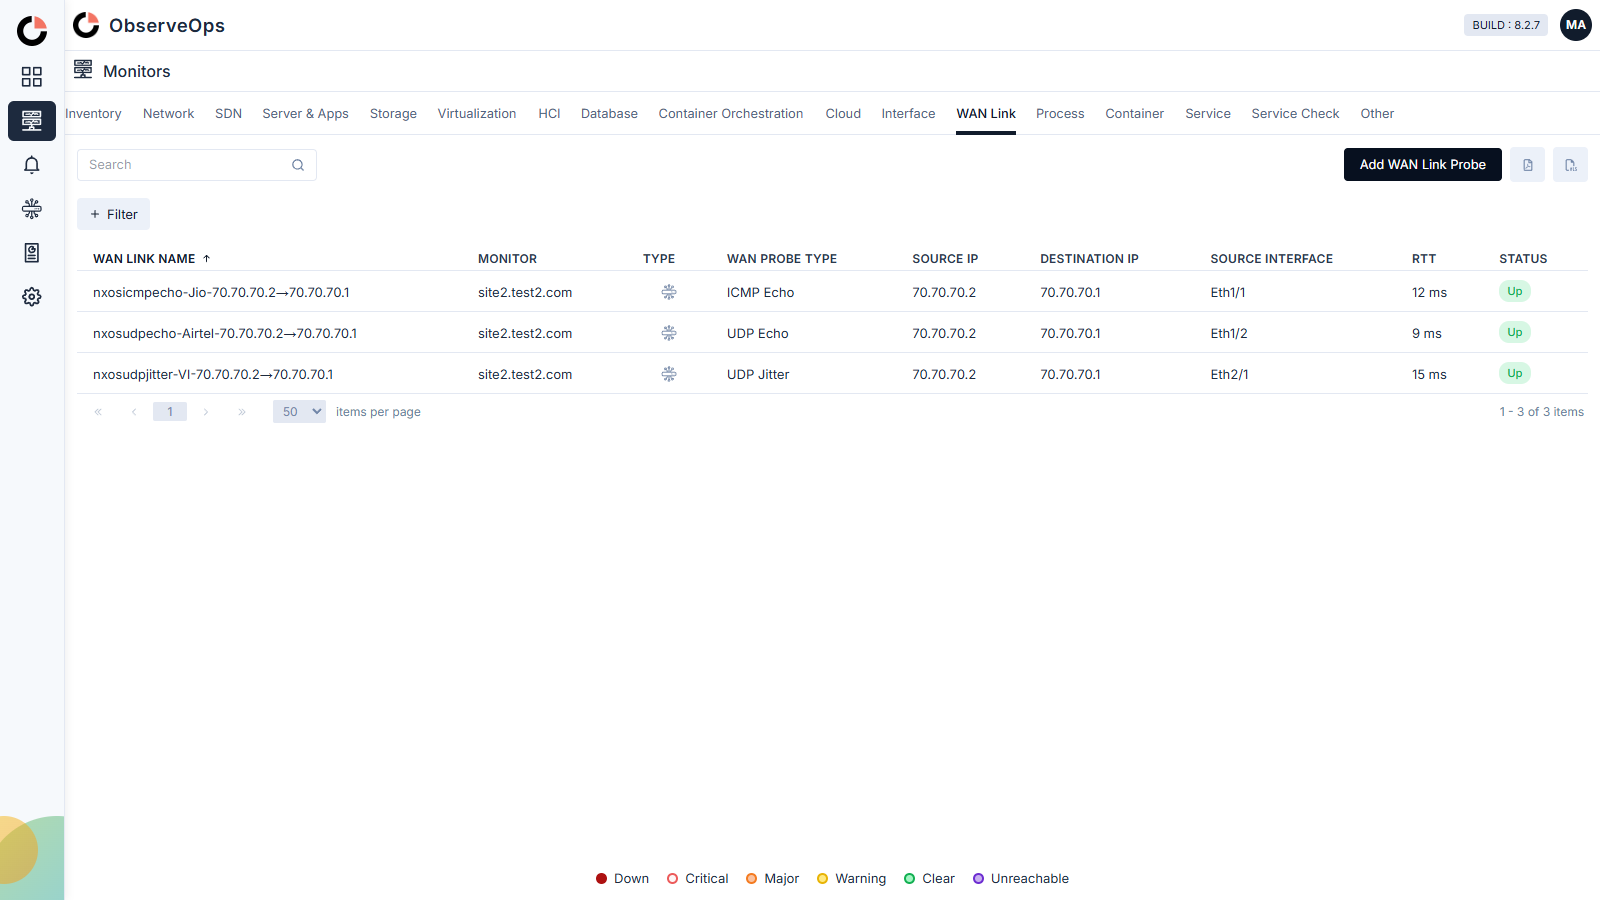
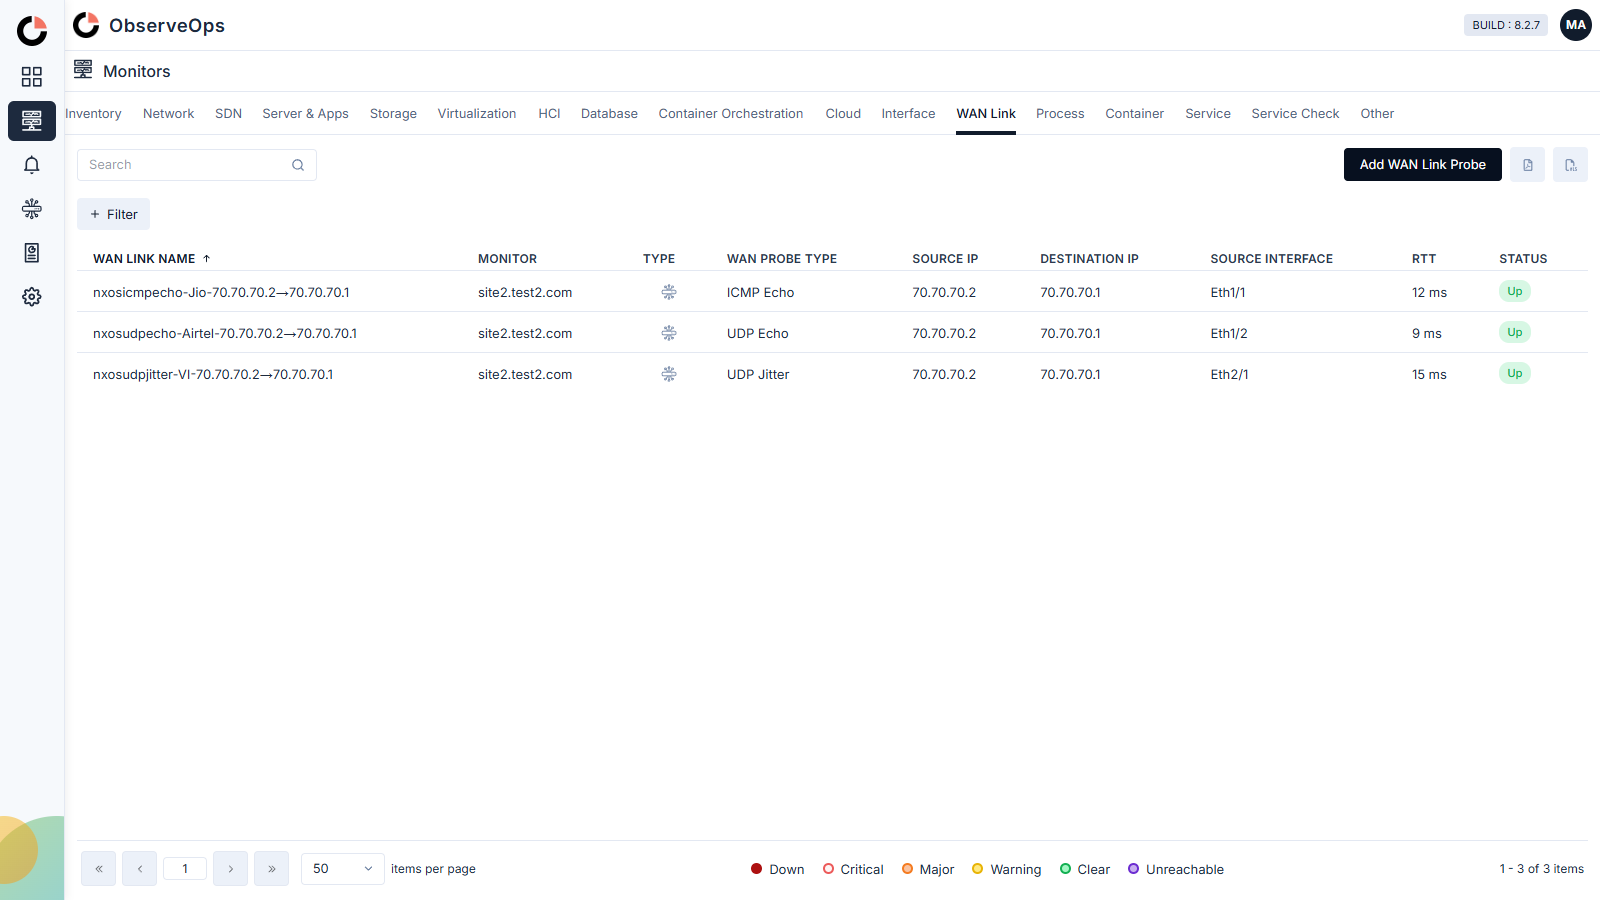
feat(wan-link): pin pagination, page size, legend and count to the page bottom
The product puts all four in one band at the bottom of the page. obs-table
renders its pager at its own content height and cannot be made to fill a
taller host - no attribute, no part, no custom property, and injecting a
height fix into its shadow root does not move it either (DS-GAPS G36). So
the pager is turned off with the documented page-size=0 and the band is
rebuilt from obs-button, obs-icon, obs-select and obs-severity.

obs-select is a fixed 240px unless block; block plus a host width is the
only supported way to narrow it to a two-digit field.

The arrows stay disabled because there is one page. That costs 9 conformance
points - the checker scores a disabled obs-button as off-reference while
printing identical colours on both sides (G37) - and the correct affordance
is kept over the better score, as with G31.

diff --git a/src/wan-link/screen.js b/src/wan-link/screen.js
@@ -36,10 +36,42 @@ const TEMPLATE = `
         </obs-button>
       </obs-toolbar>
       <obs-filters id="wan-link-filters" kind="bar"></obs-filters>
-      <obs-table id="wan-link-table" row-key="id" sort="name:asc" page-size="50" sticky-header max-height="100%"></obs-table>
+      <!-- page-size="0" turns obs-table's own pager off. The product puts pagination, page size,
+           the severity legend and the item count in ONE band pinned to the bottom of the page;
+           obs-table renders its pager at its own content height and offers no attribute, part or
+           custom property to move it, so the band below is ours. See DS-GAPS G36. -->
+      <obs-table id="wan-link-table" row-key="id" sort="name:asc" page-size="0" sticky-header max-height="100%"></obs-table>
 
-      <!-- The product's severity legend, which sits under every monitor list. -->
-      <div class="wl-legend" id="wan-link-legend"></div>
+      <div class="wl-footer">
+        <!-- The arrows are disabled because there is one page. The conformance checker scores a
+             disabled obs-button as off-reference while reporting identical colours on both sides
+             (DS-GAPS G37); the correct affordance is kept over the better score. -->
+        <div class="wl-footer__pager">
+          <obs-button variant="neutral-lightest" squared disabled aria-label="First page">
+            <obs-icon name="chevron-double-left" size="12"></obs-icon>
+          </obs-button>
+          <obs-button variant="neutral-lightest" squared disabled aria-label="Previous page">
+            <obs-icon name="chevron-left" size="12"></obs-icon>
+          </obs-button>
+          <span class="wl-footer__page">1</span>
+          <obs-button variant="neutral-lightest" squared disabled aria-label="Next page">
+            <obs-icon name="chevron-right" size="12"></obs-icon>
+          </obs-button>
+          <obs-button variant="neutral-lightest" squared disabled aria-label="Last page">
+            <obs-icon name="chevron-double-right" size="12"></obs-icon>
+          </obs-button>
+          <!-- block makes the control fill its host instead of the fixed 240px, which is the only
+               supported way to narrow it: sizing the host alone is overflowed by the inner control.
+               (No backticks in this comment: the template is a JS template literal.) -->
+          <obs-select id="wan-link-page-size" value="50" block></obs-select>
+          <span class="wl-footer__label">items per page</span>
+        </div>
+
+        <!-- The product's severity legend sits under every monitor list. -->
+        <div class="wl-legend" id="wan-link-legend"></div>
+
+        <div class="wl-footer__count" id="wan-link-count"></div>
+      </div>
     </main>
   </div>
 `
@@ -91,6 +123,12 @@ export function mount(root) {
   root.querySelector('#wan-link-legend').innerHTML = SEVERITIES
     .map((s) => `<obs-severity severity="${s}" shape="dot" display-text></obs-severity>`)
     .join('')
+
+  root.querySelector('#wan-link-page-size').options = [25, 50, 100]
+    .map((n) => ({ value: String(n), text: String(n) }))
+
+  const total = table.rows.length
+  root.querySelector('#wan-link-count').textContent = `1 - ${total} of ${total} items`
 
   // The shell provides one #overlay-root per screen and clears it between navigations.
   const overlay = document.getElementById('overlay-root')

diff --git a/src/wan-link/wanLink.css b/src/wan-link/wanLink.css
@@ -249,12 +249,45 @@
   min-height: 0;
 }
 
-.wl-legend {
+/* One band pinned to the bottom of the page, as in the product: pager and page size on the left,
+   the severity legend centred, the item count on the right. */
+.wl-footer {
   flex: 0 0 auto;
+  display: grid;
+  grid-template-columns: auto 1fr auto;
+  align-items: center;
+  gap: 16px;
+  padding: 10px 4px 2px;
+  border-top: 1px solid var(--border-color);
+}
+
+.wl-footer__pager { display: flex; align-items: center; gap: 6px; }
+
+/* obs-select is a fixed 240px unless `block`; the page-size control is a two-digit field. */
+.wl-footer__pager obs-select { width: 84px; margin-left: 6px; }
+
+.wl-footer__page {
+  min-width: 26px;
+  padding: 3px 8px;
+  border: 1px solid var(--border-color);
+  border-radius: 4px;
+  text-align: center;
+  font-size: 12px;
+}
+
+.wl-footer__label,
+.wl-footer__count {
+  font-size: 12px;
+  color: var(--secondary-text-color);
+  white-space: nowrap;
+}
+
+.wl-footer__count { justify-self: end; }
+
+.wl-legend {
   display: flex;
   justify-content: center;
   flex-wrap: wrap;
   gap: 6px 18px;
-  padding: 10px 0 2px;
   font-size: 12px;
 }

diff --git a/docs/DS-GAPS.md b/docs/DS-GAPS.md
@@ -27,6 +27,8 @@ screen (2026-08-13). Both are discoverability/capability gaps that cost real tim
 | **G33** `obs-table` copies the host `id` into its shadow root | 🆕 **OPEN** | `#wan-link-table` matches twice under any shadow-piercing engine; a Playwright strict locator throws. The consumer cannot address its own element by the id it set |
 | **G34** no chart element | ⚖ **ANSWERED, by design** | 0.1.210 documents the decision: charts are Highcharts, app-rendered, so no obs-* will ship. Superseded by G35 |
 | **G35** the 32 chart fixtures are documented but not published | 🆕 **OPEN** | `data-viz.json` says they ship under `charts/` with a `charts/manifest.json`; `package.json` `files` omits the directory and it is absent from the tarball. The one shippable path for a standalone consumer is documented and unreachable |
+| **G36** `obs-table` cannot pin its pager to the bottom of a taller container | 🆕 **OPEN** | The host stretches to 605px; the internal wrap stays at its 183px content height, so the pager sits mid-page. No attribute, no `part`, no custom property, and a definite host height changes nothing. The product's bottom-pinned footer has to be rebuilt by the consumer |
+| **G37** the conformance checker scores a **disabled** `obs-button` as off-reference | 🆕 **OPEN** | 4 disabled pager buttons drop the run 100 → 91 (component 69), and the failure line prints the SAME colour on both sides: "bg rgb(236, 241, 249) vs rgb(236, 241, 249)". Removing `disabled` restores 100/100 |
 
 | Gap | Status | Evidence |
 |---|---|---|
@@ -1337,3 +1339,79 @@ showcase is named as an alternative, but a URL cannot be diffed, version-pinned 
 elsewhere, correct `data-viz.json` — it currently names this package twice.
 
 **Class: DS — packaging.**
+
+---
+
+### New finding — G36: `obs-table` cannot pin its pager to the bottom of a taller container
+
+Every monitor list in the product ends in one band at the **bottom of the page**: pagination, page
+size, the severity legend and the item count, on one line. `obs-table` renders its own pager
+immediately after the rows, at the table's content height. With three rows that lands the pager
+mid-page, roughly 400px above where the product puts it.
+
+**The host stretches; the internals do not.** Measured on the rendered page:
+
+| | height |
+|---|---|
+| `obs-table` host (a flex child, `flex: 1 1 auto`) | **605px** |
+| its internal `.wrap` | **183px** |
+| `.pager` bottom | **429px**, against a host bottom of 851px |
+
+Every outside lever was tried, and none moves it:
+
+- `max-height="100%"` + `sticky-header` — documented as "cap the grid height + scroll the body", but
+  it only *caps*; with three rows there is nothing to scroll and the wrap stays at content height.
+- A **definite** host height (`height: 500px`, and `display:flex; flex-direction:column` with it) —
+  wrap 183px, pager 429px, unchanged in both cases.
+- `::part()` — `obs-table` exposes **no parts at all**: `shadowRoot.querySelectorAll('[part]')`
+  returns an empty list.
+- No `height`, `fill` or `stretch` attribute exists in `elements-api.json`.
+
+Injecting `.wrap{height:100%;display:flex;flex-direction:column}` **into the shadow root** did not
+move it either (429 → 429), so this is not a percentage-resolution problem a consumer could solve
+even by piercing — the component sizes itself to its content.
+
+**Consumer workaround:** turn the pager off with the documented `page-size="0"` and rebuild the whole
+band — first/prev/next/last, the page-size select, legend and count — from `obs-button`,
+`obs-icon`, `obs-select` and `obs-severity`. That is what this screen does. It reaches 100/100 and
+0 raw controls, so nothing is off-system; it is simply a component's own footer rebuilt by hand.
+
+**Ask:** either let the grid fill its host (a `fill`/`stretch` attribute, or `:host{height:100%}`
+with an internal flex column), or expose the pager as a `part` so a consumer can place it. A
+bottom-pinned list footer is the shape of every list screen in the product.
+
+**Class: DS — capability.**
+
+---
+
+### New finding — G37: the conformance checker scores a **disabled** `obs-button` as off-reference
+
+The four pager arrows are `disabled`, because the list has one page — the same greyed state the
+product shows. That alone drops the screen from **100/100 to 91/100**, component 100 → 69:
+
+```
+OVERALL: 91/100  ·  token 100  component 69  philosophy 100  layout 100
+  ✗ <obs-button variant="neutral-lightest"> renders off-reference
+    (bg rgb(236, 241, 249) vs rgb(236, 241, 249)) — variant looks overridden,
+    not the real "neutral-lightest"
+```
+
+**The failure line reports the same colour on both sides.** Nothing is overridden: the two export
+buttons in the toolbar above use the identical `variant="neutral-lightest" squared` and pass. The
+only difference is the `disabled` attribute — a first-class, documented property of the component.
+Removing it restores 100/100 with 0 off-ref; adding it back drops it again. Nothing else changes.
+
+So the checker appears to compare a disabled instance against an enabled reference render, find a
+difference in some property it does not print, and report it as an overridden variant while
+displaying matching backgrounds.
+
+**Consumer decision:** the `disabled` state is kept. It is the correct affordance — enabled-looking
+arrows that do nothing are a worse product than greyed ones — and this repo already has precedent
+for choosing the product over the score (**G31**, where a raw anchor was kept deliberately). The
+deploy workflow gates on tests, build and the colour guard, not on conformance, so nothing is
+blocked. This is the same family as **G8**: the checker rejecting valid work.
+
+**Ask:** compare a disabled component against a disabled reference, and print the property that
+actually differs rather than one that matches.
+
+**Class: DS — discoverability (tooling).**
